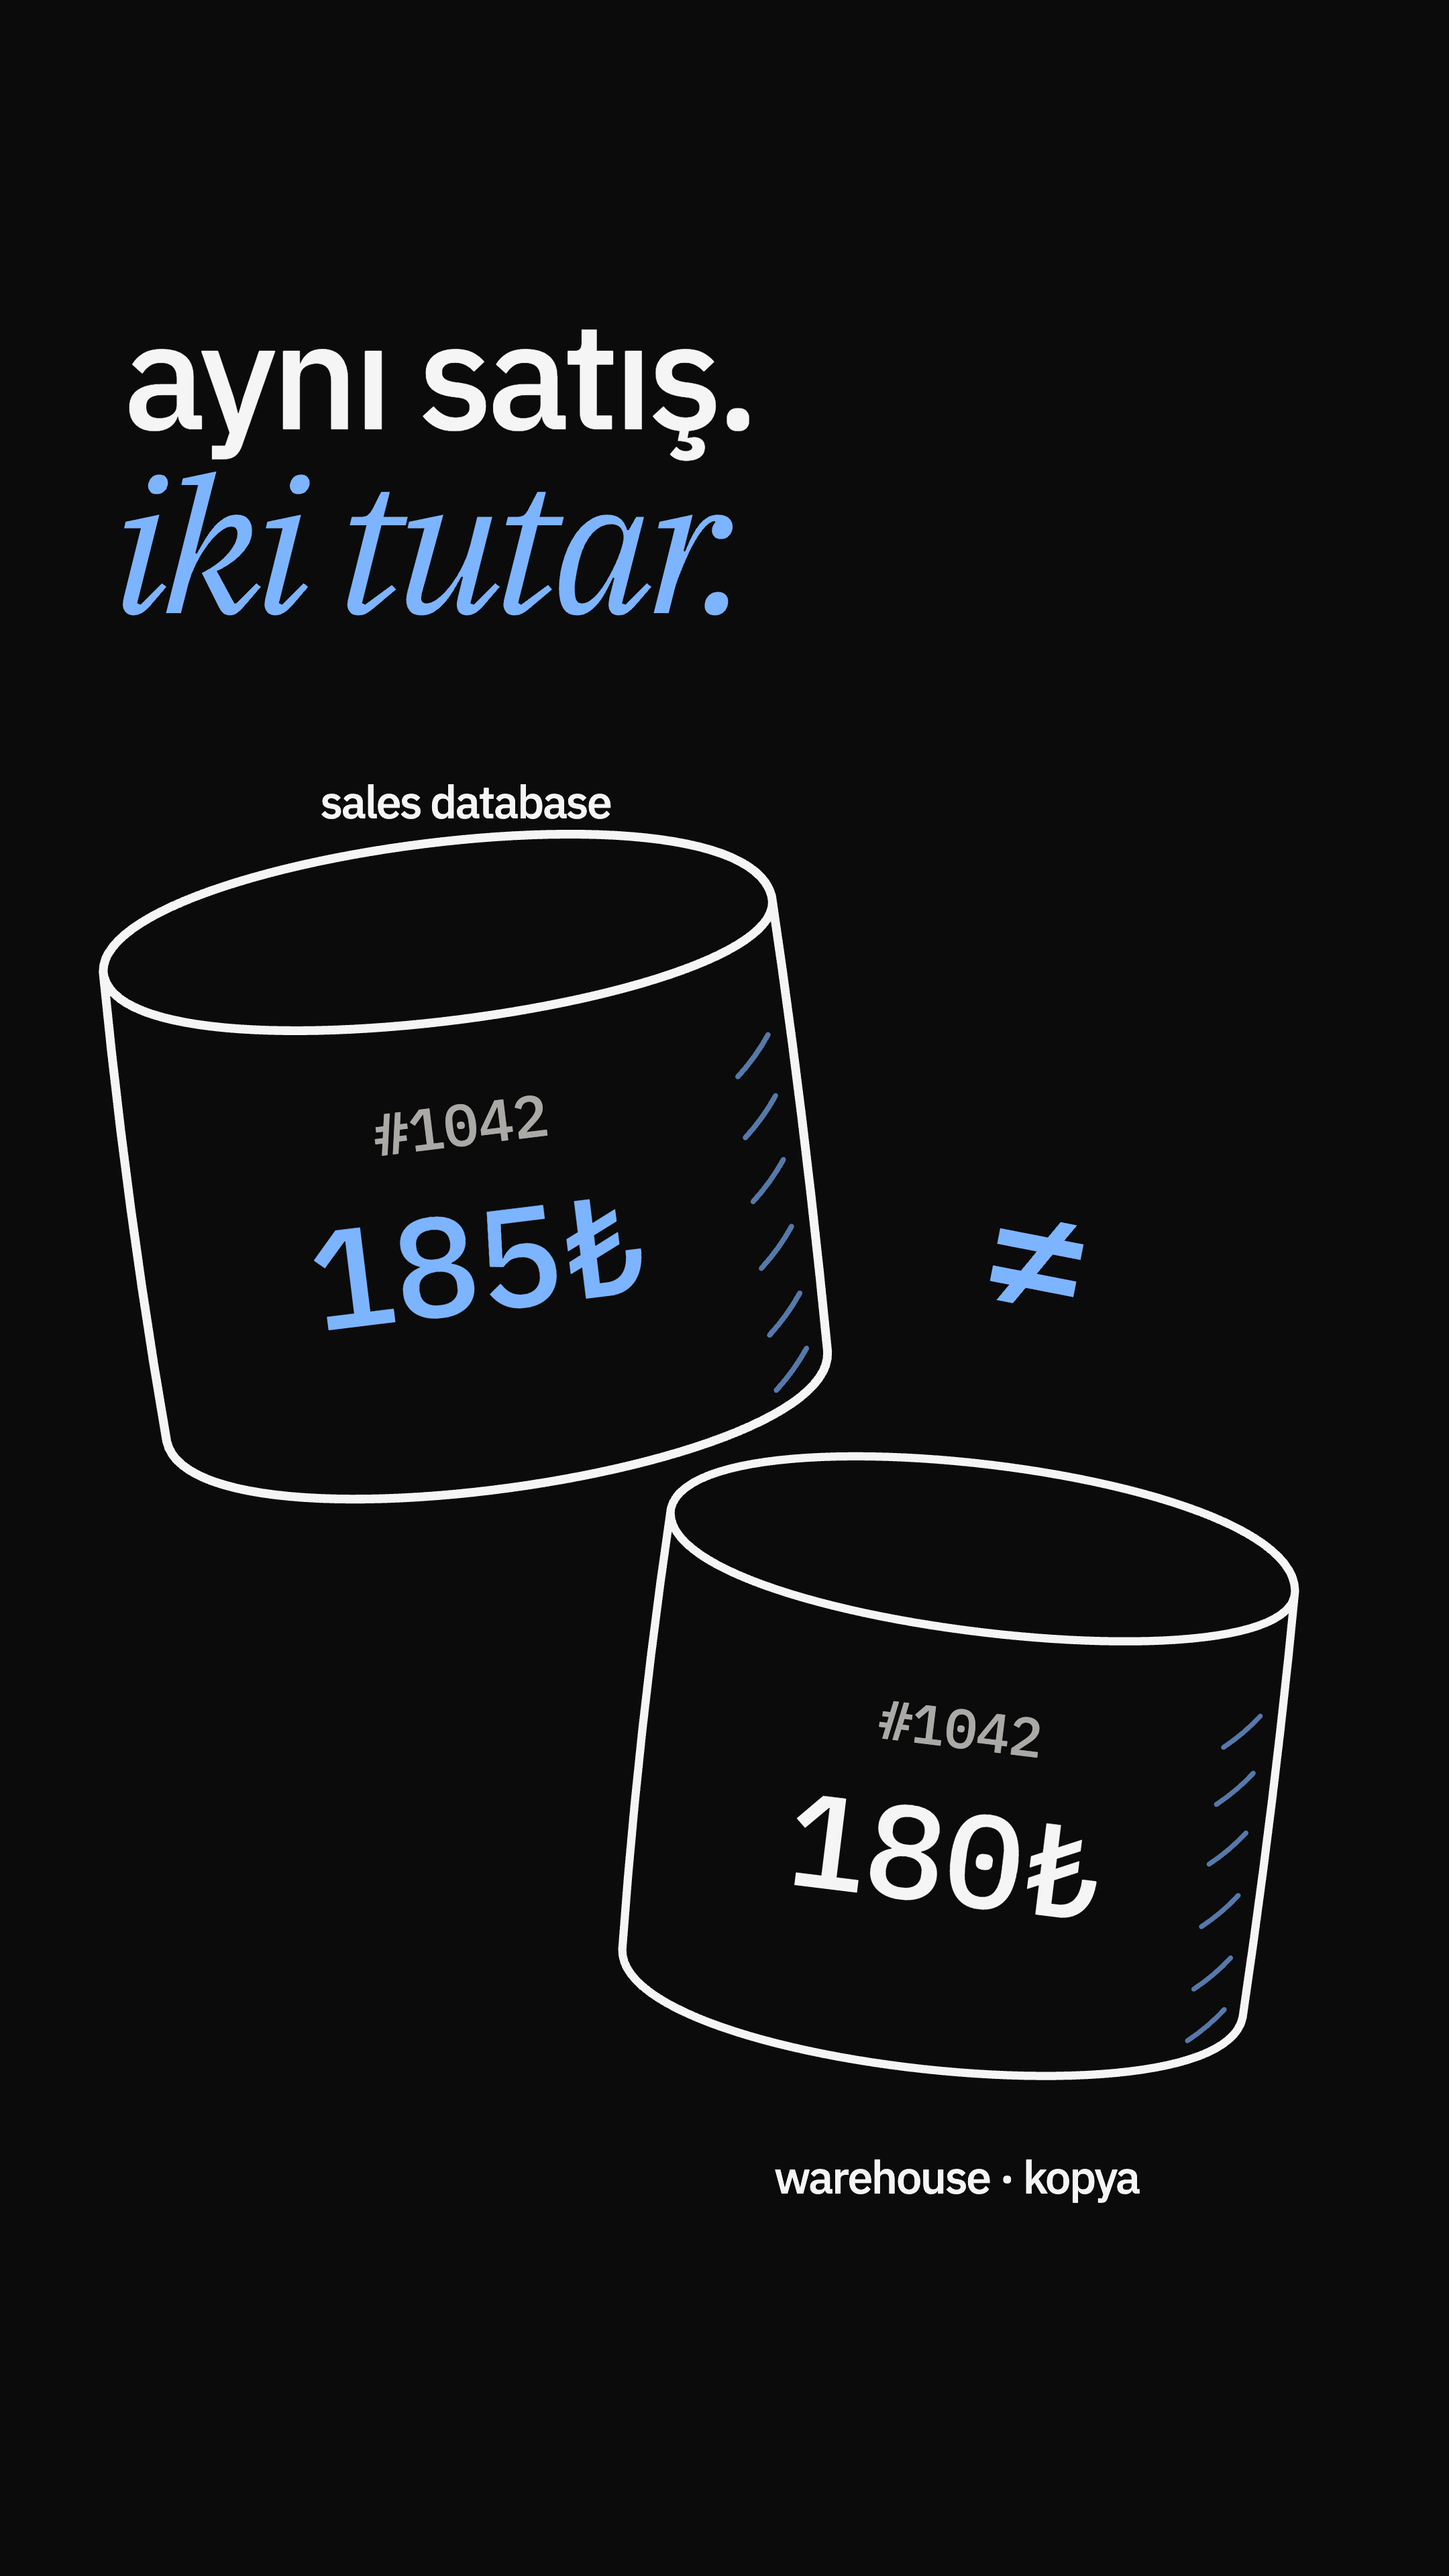
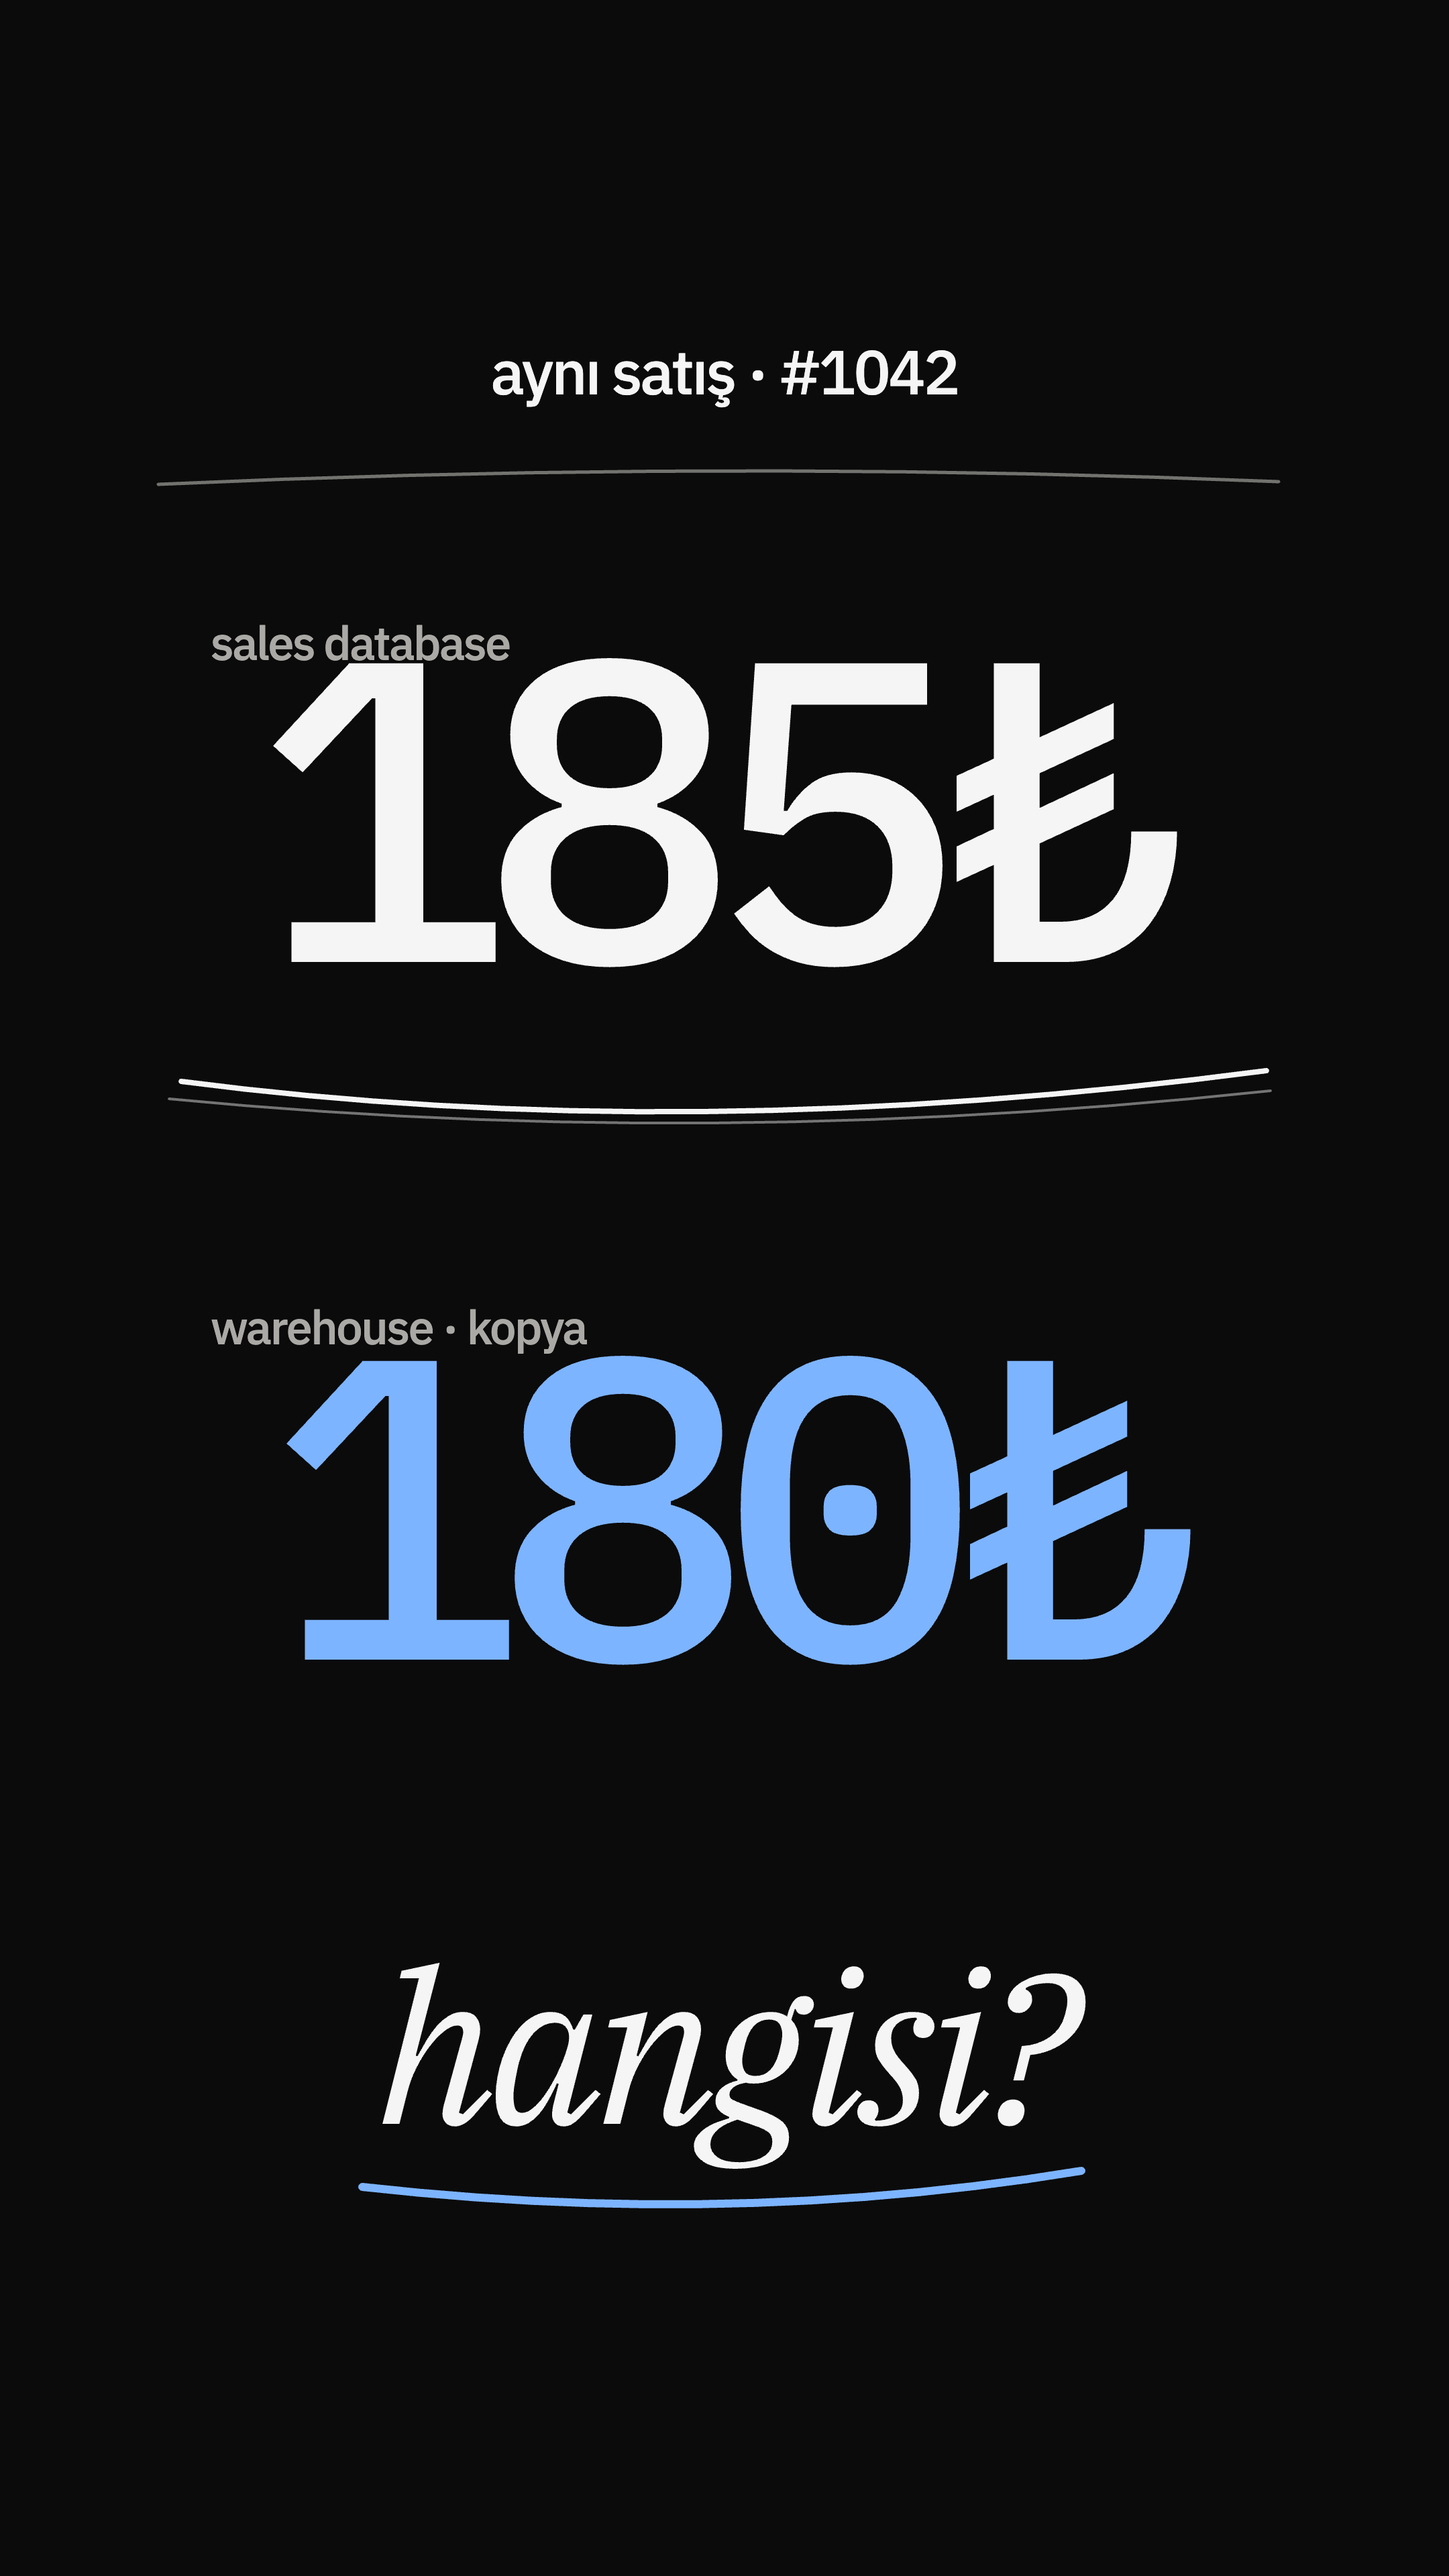
feat(ddia): give system of record covers distinct visual concepts

Changed region(s): [[0.062, 0.125, 0.8995, 0.875], [0.0931, 0.4688, 0.1241, 0.5625], [0.4032, 0.7188, 0.4343, 0.75]]

diff --git a/ddia/01/operational-vs-analytical-systems/shorts/system-of-record/thumbnail/b-source-wins/thumbnail.js b/ddia/01/operational-vs-analytical-systems/shorts/system-of-record/thumbnail/b-source-wins/thumbnail.js
@@ -1,40 +1,45 @@
-import { C, arrow, database, mount, paper, stroke, text } from '../shared/art.js';
+import { C, mount, stroke, text } from '../shared/art.js';
 
-const title =
-  text(92, 310, 123, 'iki kayıt.') +
-  text(82, 458, 144, 'tek karar.', { family: 'serif', fill: C.blue });
+// The two amounts belong to the same sale: an original document and its carbon copy.
+// Cream paper occupies the cover instead of a headline sitting above a diagram.
+const original =
+  '<g transform="translate(80 185) rotate(-6 405 600)">' +
+  stroke(
+    'M 0 5 Q 401 -4 810 7 L 801 1190 L 773 1207 L 744 1187 L 711 1209 L 679 1190 L 645 1211 L 612 1188 L 579 1206 L 546 1189 L 513 1210 L 480 1190 L 448 1207 L 416 1188 L 382 1210 L 349 1190 L 317 1208 L 284 1188 L 251 1209 L 218 1189 L 184 1208 L 152 1187 L 118 1209 L 86 1191 L 52 1207 L 18 1189 Z',
+    { fill: C.cream, color: C.cream, width: 4 },
+  ) +
+  text(58, 161, 116, 'aynı satış.', { fill: C.black }) +
+  text(63, 250, 36, '#1042', { family: 'mono', fill: C.black }) +
+  text(743, 250, 31, 'asıl kayıt', { anchor: 'end', fill: C.black }) +
+  stroke('M 61 293 Q 404 297 745 291', { color: C.black, width: 3 }) +
+  text(58, 570, 210, '185₺', { family: 'mono', fill: C.black }) +
+  stroke('M 61 635 Q 402 640 744 634', { color: C.black, width: 3 }) +
+  text(63, 710, 31, 'sales database', { family: 'mono', fill: C.black }) +
+  stroke('M 66 803 L 223 801 M 66 834 L 365 831 M 65 866 L 303 863', {
+    color: C.black,
+    width: 5,
+    opacity: 0.25,
+  }) +
+  '</g>';
 
-const copy = paper(
-  683,
-  763,
-  480,
-  310,
-  text(-190, -91, 31, 'warehouse · kopya') +
-    stroke('M -191 -57 Q 0 -61 191 -56', { width: 2, opacity: 0.4 }) +
-    text(0, -10, 23, '#1042', { family: 'mono', anchor: 'middle', fill: C.muted }) +
-    text(0, 100, 105, '180₺', { family: 'mono', anchor: 'middle' }),
-  { rotate: 8 },
-);
+const carbon =
+  '<g transform="translate(285 970) rotate(7 360 400)">' +
+  stroke(
+    'M 5 4 Q 353 -2 718 6 L 723 744 L 695 761 L 666 746 L 636 762 L 605 746 L 574 763 L 543 747 L 513 761 L 482 747 L 452 763 L 420 747 L 390 762 L 359 747 L 328 763 L 297 748 L 266 762 L 235 747 L 204 763 L 173 747 L 142 762 L 111 747 L 80 762 L 49 747 L 17 763 Z',
+    { fill: C.navy, color: C.blue, width: 4 },
+  ) +
+  stroke('M 20 21 Q 362 17 702 22 L 706 728', {
+    color: C.blue,
+    width: 2,
+    opacity: 0.4,
+  }) +
+  text(48, 96, 35, '#1042', { family: 'mono', fill: C.blue }) +
+  text(666, 96, 31, 'kopya', { anchor: 'end', fill: C.blue }) +
+  stroke('M 48 132 Q 359 136 667 130', { color: C.blue, width: 2, opacity: 0.6 }) +
+  text(42, 281, 119, 'iki tutar.', { family: 'serif', fill: C.blue }) +
+  text(43, 502, 186, '180₺', { family: 'mono' }) +
+  stroke('M 47 570 Q 357 574 667 569', { color: C.blue, width: 2, opacity: 0.6 }) +
+  text(49, 643, 31, 'warehouse', { family: 'mono', fill: C.blue }) +
+  '</g>';
 
-// The foreground source determines which value repairs the copy, not real-world truth.
-const source = database(415, 1211, 2.65, {
-  value: '',
-  rotate: -7,
-  inside:
-    text(0, -8, 19, '#1042', { family: 'mono', anchor: 'middle', fill: C.muted }) +
-    text(0, 52, 46, '185₺', { family: 'mono', anchor: 'middle', fill: C.blue }),
-});
-
-const repair =
-  arrow(831, 1271, 870, 1010) +
-  text(882, 1380, 30, 'aslına', { anchor: 'middle', fill: C.blue, rotate: -5 }) +
-  text(877, 1418, 30, 'göre', { anchor: 'middle', fill: C.blue, rotate: -5 });
-
-mount(
-  'iki kayıt. tek karar. — system of record',
-  title +
-    copy +
-    repair +
-    source +
-    text(408, 1620, 39, 'esas aldığımız kayıt', { anchor: 'middle', fill: C.blue }),
-);
+mount('aynı satış. iki tutar. — system of record', original + carbon);

diff --git a/ddia/01/operational-vs-analytical-systems/shorts/system-of-record/thumbnail/c-source-question/thumbnail.js b/ddia/01/operational-vs-analytical-systems/shorts/system-of-record/thumbnail/c-source-question/thumbnail.js
@@ -1,31 +1,33 @@
-import { C, database, mount, stroke, text } from '../shared/art.js';
+import { C, mount, stroke, text } from '../shared/art.js';
 
-const title =
-  text(92, 320, 119, 'asıl kayıt.') +
-  text(83, 457, 125, 'hatasız mı?', { family: 'serif', fill: C.blue });
-
-const source = database(467, 1125, 2.85, {
-  value: '',
-  rotate: -7,
-  inside:
-    text(0, -7, 22, '#1042', { family: 'mono', anchor: 'middle', fill: C.muted }) +
-    text(0, 50, 49, '185₺', { family: 'mono', anchor: 'middle', fill: C.blue }),
-});
-
-// The record remains intact; the question is about its guarantee, not its authority.
-const question =
-  '<g transform="rotate(9 850 850)">' +
-  stroke('M 758 734 C 756 622 949 608 951 728 C 954 793 882 818 851 859 Q 834 881 837 924', {
-    color: C.blue,
-    width: 17,
+// Authority is a physical stamp. The proof mark challenges the implied guarantee.
+const authority =
+  '<g transform="translate(506 576) rotate(-9)">' +
+  stroke('M -355 -153 Q -10 -161 355 -151 L 348 150 Q 0 160 -352 150 Z', {
+    color: C.white,
+    width: 5,
   }) +
-  stroke('M 836 986 l 1 3', { color: C.blue, width: 21 }) +
+  stroke('M -331 -130 Q 0 -137 330 -128', { color: C.white, width: 2, opacity: 0.45 }) +
+  text(-5, 12, 164, 'asıl kayıt', { anchor: 'middle', weight: 500 }) +
+  text(-5, 100, 37, '#1042 · 185₺', { anchor: 'middle', family: 'mono', fill: C.muted }) +
   '</g>';
 
+const proof =
+  stroke('M 167 952 Q 499 903 894 937', { color: C.blue, width: 43 }) +
+  stroke('M 183 1117 Q 484 1075 874 1104', { color: C.blue, width: 43 }) +
+  stroke('M 724 793 Q 566 1022 383 1256', { color: C.blue, width: 44 }) +
+  stroke('M 725 805 Q 566 1033 391 1251', { color: C.white, width: 2, opacity: 0.38 });
+
+const assumption = text(521, 1495, 190, 'hatasız.', {
+  family: 'serif',
+  anchor: 'middle',
+  rotate: 6,
+});
+
 mount(
-  'asıl kayıt. hatasız mı? — system of record',
-  title +
-    source +
-    question +
-    text(480, 1580, 41, 'system of record', { family: 'serif', anchor: 'middle', fill: C.muted }),
+  'asıl kayıt, hatasız kayıt demek değil. — system of record',
+  authority +
+    proof +
+    assumption +
+    text(530, 1644, 35, 'system of record', { anchor: 'middle', fill: C.muted }),
 );

diff --git a/ddia/01/operational-vs-analytical-systems/shorts/system-of-record/thumbnail/a-two-amounts/thumbnail.js b/ddia/01/operational-vs-analytical-systems/shorts/system-of-record/thumbnail/a-two-amounts/thumbnail.js
@@ -1,33 +1,27 @@
-import { C, text, database, mount } from '../shared/art.js';
+import { C, mount, stroke, text } from '../shared/art.js';
 
-const heading =
-  text(92, 320, 112, 'aynı satış.') +
-  text(84, 457, 139, 'iki tutar.', { family: 'serif', fill: C.blue });
-
-const source =
-  text(347, 610, 34, 'sales database', { anchor: 'middle' }) +
-  database(347, 867, 2.18, {
-    value: '',
-    rotate: -7,
-    inside:
-      text(0, -6, 20, '#1042', { family: 'mono', anchor: 'middle', fill: C.muted }) +
-      text(0, 51, 48, '185₺', { family: 'mono', anchor: 'middle', fill: C.blue }),
+// The amounts are the composition. No diagram or repeated headline template.
+const amounts =
+  text(528, 717, 319, '185₺', { family: 'mono', anchor: 'middle', spacing: -22 }) +
+  text(538, 1237, 319, '180₺', {
+    family: 'mono',
+    anchor: 'middle',
+    spacing: -22,
+    fill: C.blue,
   });
 
-const copy =
-  database(713, 1315, 2.04, {
-    value: '',
-    rotate: 7,
-    inside:
-      text(0, -6, 20, '#1042', { family: 'mono', anchor: 'middle', fill: C.muted }) +
-      text(0, 51, 48, '180₺', { family: 'mono', anchor: 'middle' }),
-  }) + text(713, 1635, 34, 'warehouse · kopya', { anchor: 'middle' });
+const oneSale =
+  text(540, 294, 46, 'aynı satış · #1042', { anchor: 'middle' }) +
+  stroke('M 118 361 Q 535 342 953 359', { width: 2.5, color: C.muted, opacity: 0.65 });
 
-const conflict = text(765, 981, 133, '≠', {
-  family: 'mono',
-  anchor: 'middle',
-  fill: C.blue,
-  rotate: 11,
-});
+const annotations =
+  text(157, 492, 35, 'sales database', { fill: C.muted }) +
+  text(157, 1002, 35, 'warehouse · kopya', { fill: C.muted }) +
+  stroke('M 135 806 Q 510 855 944 798', { width: 4 }) +
+  stroke('M 126 819 Q 527 858 947 813', { width: 2, opacity: 0.45 });
 
-mount('aynı satış. iki tutar. — system of record', heading + source + conflict + copy);
+const question =
+  text(540, 1583, 158, 'hangisi?', { family: 'serif', anchor: 'middle' }) +
+  stroke('M 270 1630 Q 546 1661 806 1618', { color: C.blue, width: 6 });
+
+mount('185₺ mi, 180₺ mi? — aynı satış, iki kayıt', amounts + oneSale + annotations + question);

diff --git a/ddia/01/operational-vs-analytical-systems/shorts/system-of-record/thumbnail/c-source-question/thumbnail.html b/ddia/01/operational-vs-analytical-systems/shorts/system-of-record/thumbnail/c-source-question/thumbnail.html
@@ -3,7 +3,7 @@
   <head>
     <meta charset="utf-8" />
     <meta name="viewport" content="width=device-width, initial-scale=1" />
-    <title>system-of-record — asıl kayıt hatasız mı?</title>
+    <title>system-of-record — asıl kayıt, hatasız kayıt demek değil</title>
     <link rel="icon" href="data:," />
     <link rel="stylesheet" href="../shared/thumbnail.css" />
     <script type="module" src="./thumbnail.js"></script>

diff --git a/ddia/01/operational-vs-analytical-systems/shorts/system-of-record/thumbnail/b-source-wins/thumbnail.html b/ddia/01/operational-vs-analytical-systems/shorts/system-of-record/thumbnail/b-source-wins/thumbnail.html
@@ -3,7 +3,7 @@
   <head>
     <meta charset="utf-8" />
     <meta name="viewport" content="width=device-width, initial-scale=1" />
-    <title>system-of-record — iki kayıt, tek karar</title>
+    <title>system-of-record — asıl ve karbon kopya</title>
     <link rel="icon" href="data:," />
     <link rel="stylesheet" href="../shared/thumbnail.css" />
     <script type="module" src="./thumbnail.js"></script>
